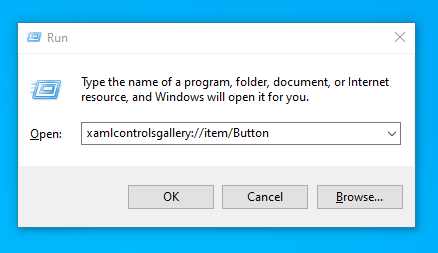
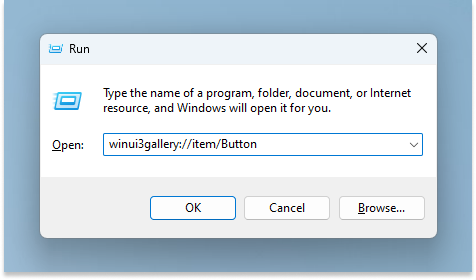
Fix protocol activation (#1304)
<!--- Provide a general summary of your changes in the Title above -->

## Description
<!--- Describe your changes in detail -->
Simplifies protocol activation,, sorry for the new line changes.

## Motivation and Context
<!--- Why is this change required? What problem does it solve? -->
<!--- If it fixes an open issue, please link to the issue here. -->
Closes #1300, Closes #1164

diff --git a/WinUIGallery/Navigation/NavigationRootPage.xaml b/WinUIGallery/Navigation/NavigationRootPage.xaml
@@ -195,50 +195,49 @@
                 <NavigationViewItem
                     x:Name="DesignGuidanceItem"
                     AutomationProperties.AutomationId="Design_Guidance"
-                    Content="Design Guidance"
-                    Tag="Design_Guidance">
+                    Content="Design guidance"
+                    Tag="Design Guidance">
                     <NavigationViewItem.Icon>
                         <FontIcon Glyph="&#xEB3C;" />
                     </NavigationViewItem.Icon>
                     <NavigationViewItem.MenuItems>
-                        <NavigationViewItem x:Name="TypographyItem" AutomationProperties.AutomationId="Typography" Content="Typography">
+                        <NavigationViewItem x:Name="TypographyItem" AutomationProperties.AutomationId="Typography" Content="Typography" Tag="Typography">
                             <NavigationViewItem.Icon>
                                 <FontIcon Glyph="&#xE8D2;" />
                             </NavigationViewItem.Icon>
                         </NavigationViewItem>
-                        <NavigationViewItem x:Name="IconsItem" AutomationProperties.AutomationId="Icons" Content="Icons">
+                        <NavigationViewItem x:Name="IconsItem" AutomationProperties.AutomationId="Icons" Content="Icons" Tag="Icons">
                             <NavigationViewItem.Icon>
                                 <FontIcon Glyph="&#xED58;" />
                             </NavigationViewItem.Icon>
                         </NavigationViewItem>
-                        <NavigationViewItem x:Name="ColorsItem" AutomationProperties.AutomationId="Colors" Content="Colors">
+                        <NavigationViewItem x:Name="ColorsItem" AutomationProperties.AutomationId="Colors" Content="Colors" Tag="Colors">
                             <NavigationViewItem.Icon>
                                 <FontIcon Glyph="&#xE790;" />
                             </NavigationViewItem.Icon>
                         </NavigationViewItem>
-                    </NavigationViewItem.MenuItems>
-                </NavigationViewItem>
-
-                <NavigationViewItem x:Name="AccessibilityItem" AutomationProperties.AutomationId="AccessibilityItem" Content="Accessibility">
-                    <NavigationViewItem.Icon>
-                        <FontIcon Glyph="&#xE776;" />
-                    </NavigationViewItem.Icon>
-                    <NavigationViewItem.MenuItems>
-                        <NavigationViewItem
-                            x:Name="AccessibilityScreenReaderPage"
-                            AutomationProperties.AutomationId="AccessibilityScreenReader" 
-                            Content="Screen reader support"
-                            Tag="AccessibilityScreenReader" />
-                        <NavigationViewItem
-                            x:Name="AccessibilityKeyboardPage"
-                            AutomationProperties.AutomationId="AccessibilityKeyboard" 
-                            Content="Keyboard support"
-                            Tag="AccessibilityKeyboard" />
-                        <NavigationViewItem
-                            x:Name="AccessibilityContrastPage"
-                            AutomationProperties.AutomationId="AccessibilityColorContrast" 
-                            Content="Color contrast"
-                            Tag="AccessibilityColorContrast" />
+                        <NavigationViewItem x:Name="AccessibilityItem" AutomationProperties.AutomationId="AccessibilityItem" Content="Accessibility" Tag="Accessibility">
+                            <NavigationViewItem.Icon>
+                                <FontIcon Glyph="&#xE776;" />
+                            </NavigationViewItem.Icon>
+                            <NavigationViewItem.MenuItems>
+                                <NavigationViewItem
+                                    x:Name="AccessibilityScreenReaderPage"
+                                    AutomationProperties.AutomationId="AccessibilityScreenReader"
+                                    Content="Screen reader support"
+                                    Tag="AccessibilityScreenReader" />
+                                <NavigationViewItem
+                                    x:Name="AccessibilityKeyboardPage"
+                                    AutomationProperties.AutomationId="AccessibilityKeyboard"
+                                    Content="Keyboard support"
+                                    Tag="AccessibilityKeyboard" />
+                                <NavigationViewItem
+                                    x:Name="AccessibilityContrastPage"
+                                    AutomationProperties.AutomationId="AccessibilityColorContrast"
+                                    Content="Color contrast"
+                                    Tag="AccessibilityColorContrast" />
+                            </NavigationViewItem.MenuItems>
+                        </NavigationViewItem>
                     </NavigationViewItem.MenuItems>
                 </NavigationViewItem>
 

diff --git a/WinUIGallery/App.xaml.cs b/WinUIGallery/App.xaml.cs
@@ -25,6 +25,8 @@ using Microsoft.UI.Xaml.Controls;
 using Microsoft.UI.Xaml.Navigation;
 using WinUIGallery.DesktopWap.DataModel;
 using WASDK = Microsoft.WindowsAppSDK;
+using Microsoft.Windows.AppLifecycle;
+using System.IO;
 
 namespace AppUIBasics
 {
@@ -78,11 +80,6 @@ namespace AppUIBasics
             this.Resuming += App_Resuming;
             this.RequiresPointerMode = ApplicationRequiresPointerMode.WhenRequested;
 #endif
-
-            if (ApiInformation.IsApiContractPresent("Windows.Foundation.UniversalApiContract", 6))
-            {
-                this.FocusVisualKind = AnalyticsInfo.VersionInfo.DeviceFamily == "Xbox" ? FocusVisualKind.Reveal : FocusVisualKind.HighVisibility;
-            }
         }
 
         public void EnableSound(bool withSpatial = false)
@@ -170,46 +167,31 @@ namespace AppUIBasics
 
                     targetPageArguments = ((Windows.ApplicationModel.Activation.LaunchActivatedEventArgs)args).Arguments;
                 }
-                else if (args.Kind == ActivationKind.Protocol)
+            }
+            var eventargs = Microsoft.Windows.AppLifecycle.AppInstance.GetCurrent().GetActivatedEventArgs();
+            if (eventargs != null && eventargs.Kind is ExtendedActivationKind.Protocol && eventargs.Data is ProtocolActivatedEventArgs)
+            {
+                ProtocolActivatedEventArgs ProtocolArgs = eventargs.Data as ProtocolActivatedEventArgs;
+                var uri = ProtocolArgs.Uri.LocalPath.Replace("/", "");
+
+                targetPageArguments = uri;
+                string targetId = string.Empty;
+
+                if (uri == "AllControls")
                 {
-                    Match match;
-
-                    string targetId = string.Empty;
-
-                    switch (((ProtocolActivatedEventArgs)args).Uri?.AbsoluteUri)
-                    {
-                        case string s when IsMatching(s, "(/*)category/(.*)"):
-                            targetId = match.Groups[2]?.ToString();
-                            if (targetId == "AllControls")
-                            {
-                                targetPageType = typeof(AllControlsPage);
-                            }
-                            else if (targetId == "HomePage")
-                            {
-                                targetPageType = typeof(HomePage);
-                            }
-                            else if (ControlInfoDataSource.Instance.Groups.Any(g => g.UniqueId == targetId))
-                            {
-                                targetPageType = typeof(SectionPage);
-                            }
-                            break;
-
-                        case string s when IsMatching(s, "(/*)item/(.*)"):
-                            targetId = match.Groups[2]?.ToString();
-                            if (ControlInfoDataSource.Instance.Groups.Any(g => g.Items.Any(i => i.UniqueId == targetId)))
-                            {
-                                targetPageType = typeof(ItemPage);
-                            }
-                            break;
-                    }
-
-                    targetPageArguments = targetId;
-
-                    bool IsMatching(string parent, string expression)
-                    {
-                        match = Regex.Match(parent, expression);
-                        return match.Success;
-                    }
+                    targetPageType = typeof(AllControlsPage);
+                }
+                else if (uri == "NewControls")
+                {
+                    targetPageType = typeof(HomePage);
+                }
+                else if (ControlInfoDataSource.Instance.Groups.Any(g => g.UniqueId == uri))
+                {
+                    targetPageType = typeof(SectionPage);
+                }
+                else if (ControlInfoDataSource.Instance.Groups.Any(g => g.Items.Any(i => i.UniqueId == uri)))
+                {
+                    targetPageType = typeof(ItemPage);
                 }
             }
 
@@ -220,13 +202,9 @@ namespace AppUIBasics
             {
                 ((Microsoft.UI.Xaml.Controls.NavigationViewItem)((NavigationRootPage)App.StartupWindow.Content).NavigationView.MenuItems[0]).IsSelected = true;
             }
-            else if (targetPageType == typeof(ItemPage))
-            {
-                NavigationRootPage.GetForElement(this).EnsureNavigationSelection(targetPageArguments);
-            }
 
             // Ensure the current window is active
-           StartupWindow.Activate();
+            StartupWindow.Activate();
         }
 
         public Frame GetRootFrame()
